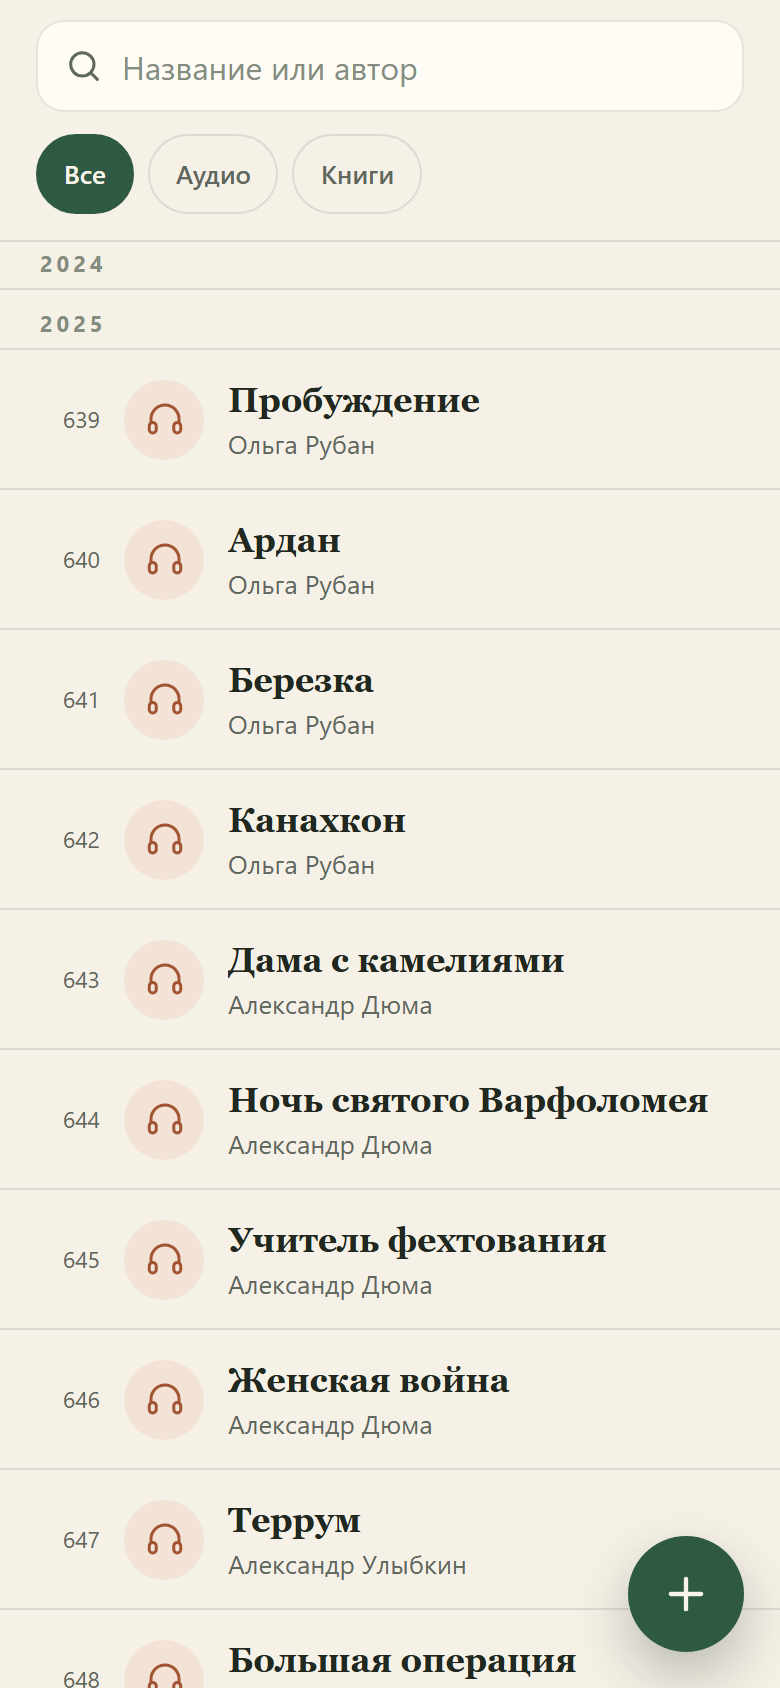
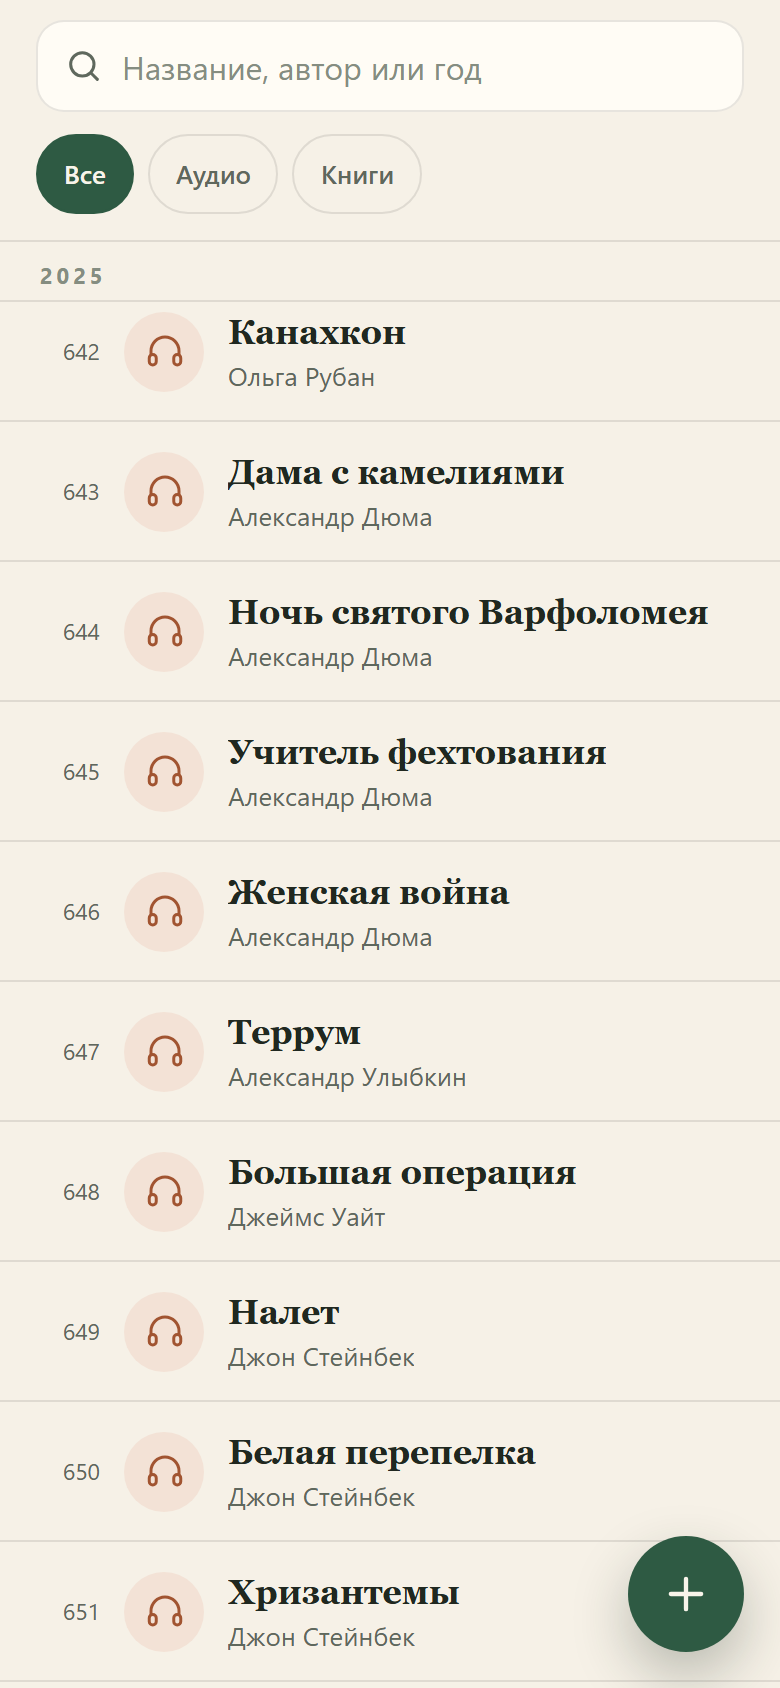
Обновляет README, скриншоты и smoke для новых сортировок
README описывает поиск по году и «Новые» с одним заголовком года. Smoke проверяет отсутствие А–Я, порядок годов в «Новых», книги внутри года и поиск «2025 рубан». Добавлен скриншот режима «Новые».

Проверено: npm test и npm run smoke.

diff --git a/README.md b/README.md
@@ -13,9 +13,9 @@
 - Основной список — хронологический, как в docx. Годы в исходнике — это границы периодов: 2025 открывается на №639 и закрывается на №728, поэтому год стоит в начале и в конце блока. 2018 и 2026 имеют по одной границе.
 - Первые 354 книги идут как «До 2018»: точный год в docx не указан.
 - Годы выведены для всех книг: 411 с годом, 354 без.
-- Поиск по названию и автору: без учёта регистра, `ё = е`, несколько слов ищутся одновременно.
+- Поиск по названию, автору или году: без учёта регистра, `ё = е`, несколько слов комбинируются. Например, `2025 рубан`.
 - Фильтр по формату: только «Аудио» и «Книги».
-- Сортировка: «По порядку» (docx), «А–Я» или «Новые».
+- Сортировка: «По порядку» (docx, с годовыми границами) или «Новые» (годы 2026 → … → «До 2018», внутри года новые сверху, один заголовок года).
 - Добавление, редактирование и удаление книги. Удаление с подтверждением и кнопкой «Отменить».
 - Данные не уходят в сеть: только `localStorage` на устройстве, без аккаунтов и сервера.
 - **Экспорт в PDF** и резервная копия JSON через меню «⋯».
@@ -97,7 +97,7 @@ npm test
 После правок в `src/app.js` или `styles.css` поднимите версию кэша в `sw.js`:
 
 ```js
-const CACHE = "prochitano-v4";
+const CACHE = "prochitano-v5";
 ```
 
 Иначе установленное приложение может показать старые файлы из кэша до фонового обновления.
